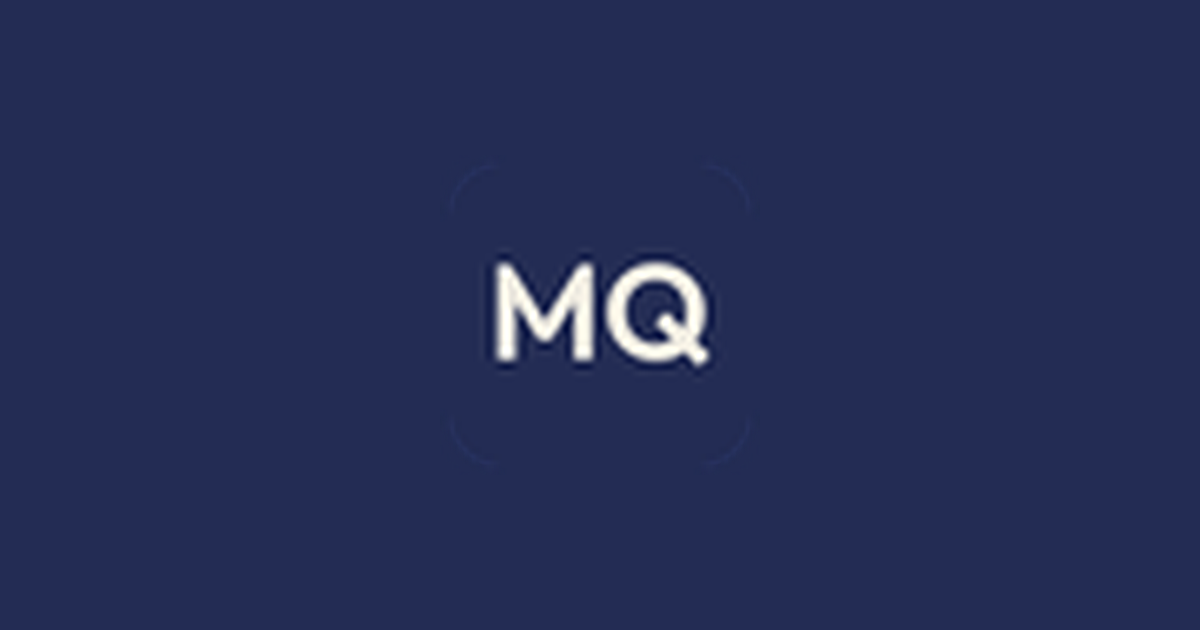
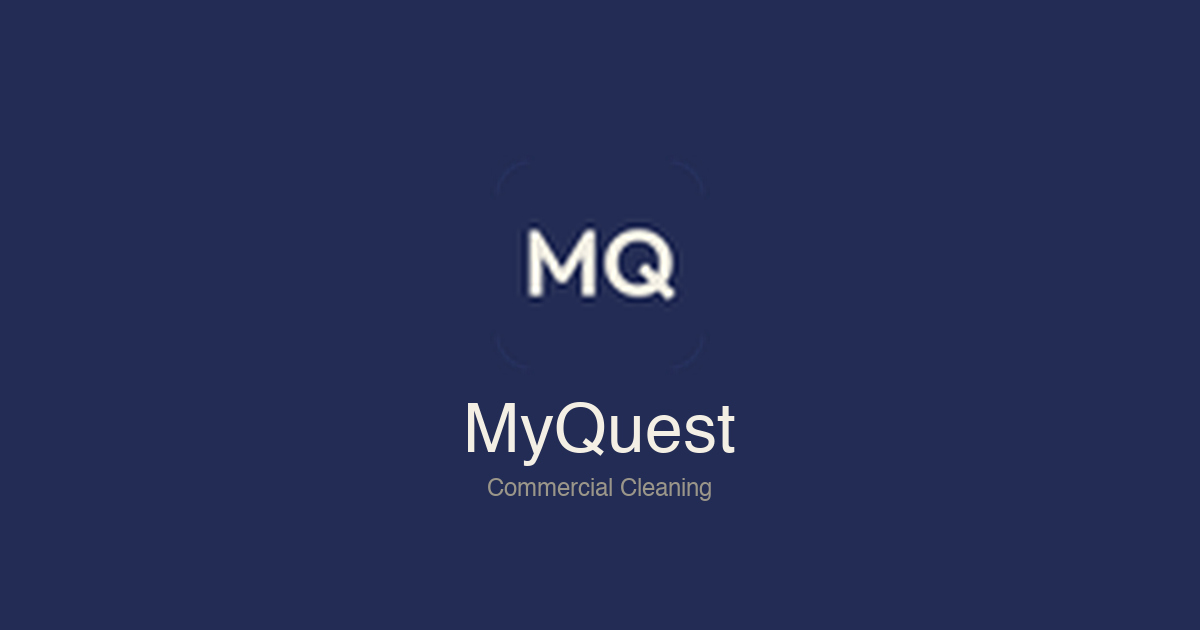
SEO: shorten title/desc, add text to og:image
- Title: 68 → 51 chars (remove Northern Rivers, use & not spelled out)
- Description: 172 → 144 chars (trim trailing CTA)
- og-image.png: rebuilt with MQ logo + MyQuest headline + Commercial Cleaning tagline

Changed region(s): [[0.4008, 0.3619, 0.6167, 0.6032], [0.37, 0.6333, 0.6167, 0.7841]]

diff --git a/index.html b/index.html
@@ -1,4 +1,4 @@
-<!doctype html><html lang=en-AU><head><meta charset=UTF-8><meta content="width=device-width,initial-scale=1.0" name=viewport><link rel=canonical href=https://myquest.au/><title>Commercial Cleaners Gold Coast, Northern Rivers & Adelaide | MyQuest</title><meta content="Commercial cleaning for offices, retail and workplaces across the Gold Coast, Northern Rivers and Adelaide. Fully insured, police checked cleaners. Request a free proposal." name=description><link href=https://myquest.au/ rel=canonical><link href=/favicon.ico rel=icon sizes=any><meta content="index, follow, max-image-preview:large" name=robots><meta content=#232c54 name=theme-color><meta content=AU-QLD name=geo.region><meta content="Gold Coast; Northern Rivers; Adelaide" name=geo.placename><meta content=website property=og:type><meta content=MyQuest property=og:site_name><meta content="MyQuest | Commercial cleaning, done properly" property=og:title><meta content="Meticulous, discreet commercial cleaning for offices, retail and workplaces. Gold Coast · Northern Rivers · Adelaide." property=og:description><meta content=https://myquest.au/ property=og:url><meta content=https://myquest.au/og-image.png property=og:image><meta content=1200 property=og:image:width><meta content=630 property=og:image:height><meta content="image/png" property=og:image:type><meta content=https://myquest.au/og-image.png name=twitter:image><meta content=en_AU property=og:locale><meta content=summary_large_image name=twitter:card><meta content="MyQuest | Commercial cleaning, done properly" name=twitter:title><meta content="Meticulous, discreet commercial cleaning for offices, retail and workplaces across QLD, NSW & SA." name=twitter:description><script type=application/ld+json>
+<!doctype html><html lang=en-AU><head><meta charset=UTF-8><meta content="width=device-width,initial-scale=1.0" name=viewport><link rel=canonical href=https://myquest.au/><title>Commercial Cleaning Gold Coast & Adelaide | MyQuest</title><meta content="Commercial cleaning for offices, retail and workplaces across the Gold Coast, Northern Rivers and Adelaide. Fully insured, police checked staff." name=description><link href=https://myquest.au/ rel=canonical><link href=/favicon.ico rel=icon sizes=any><meta content="index, follow, max-image-preview:large" name=robots><meta content=#232c54 name=theme-color><meta content=AU-QLD name=geo.region><meta content="Gold Coast; Northern Rivers; Adelaide" name=geo.placename><meta content=website property=og:type><meta content=MyQuest property=og:site_name><meta content="MyQuest | Commercial cleaning, done properly" property=og:title><meta content="Meticulous, discreet commercial cleaning for offices, retail and workplaces. Gold Coast · Northern Rivers · Adelaide." property=og:description><meta content=https://myquest.au/ property=og:url><meta content=https://myquest.au/og-image.png property=og:image><meta content=1200 property=og:image:width><meta content=630 property=og:image:height><meta content="image/png" property=og:image:type><meta content=https://myquest.au/og-image.png name=twitter:image><meta content=en_AU property=og:locale><meta content=summary_large_image name=twitter:card><meta content="MyQuest | Commercial cleaning, done properly" name=twitter:title><meta content="Meticulous, discreet commercial cleaning for offices, retail and workplaces across QLD, NSW & SA." name=twitter:description><script type=application/ld+json>
 {
   "@context": "https://schema.org",
   "@type": "LocalBusiness",
